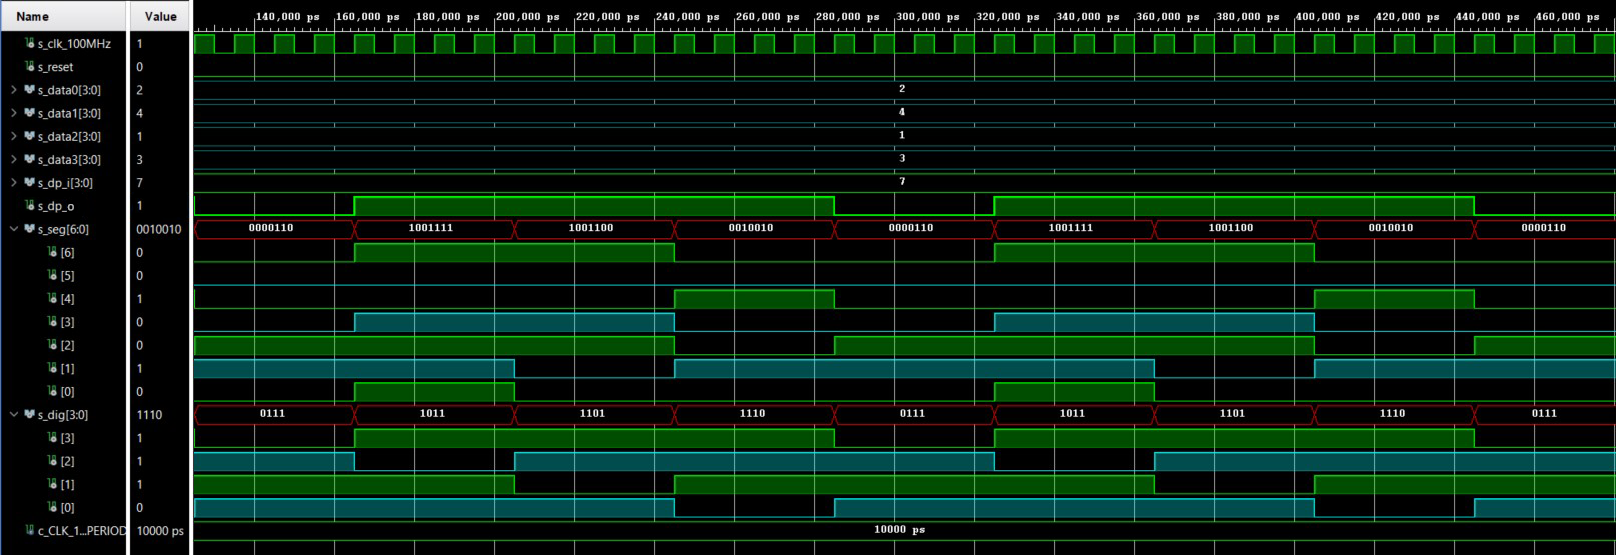
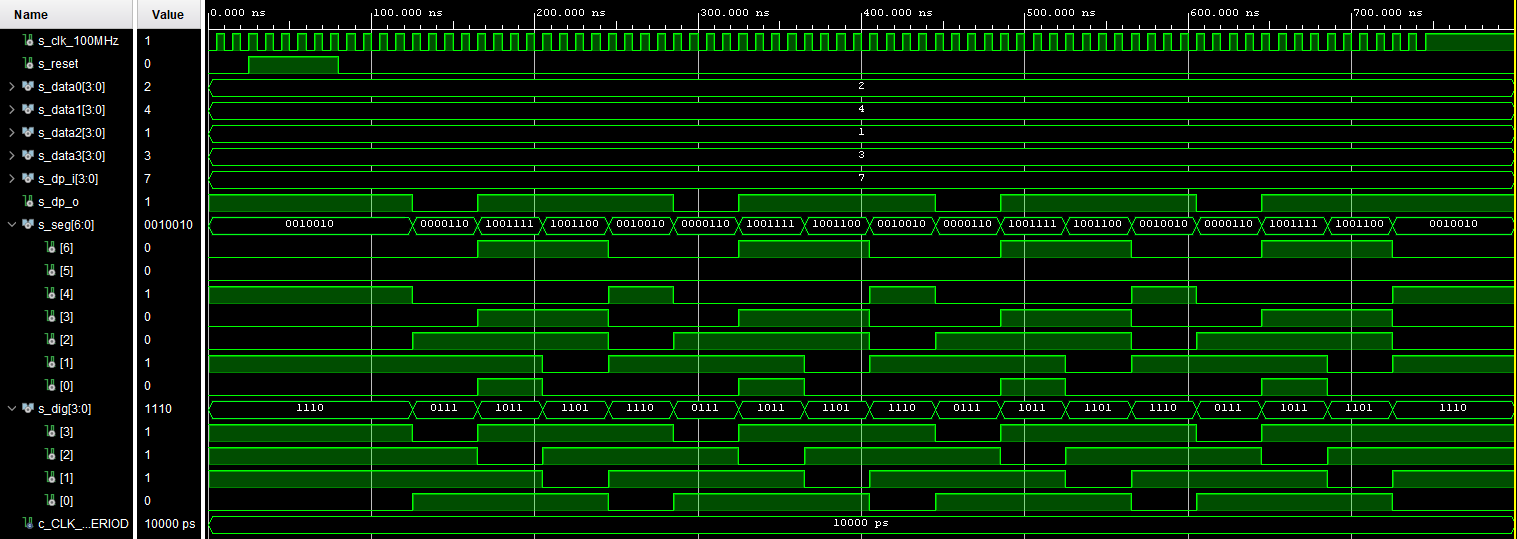
final

diff --git a/Labs/06-display_driver/README.md b/Labs/06-display_driver/README.md
@@ -21,20 +21,15 @@ p_mux : process(s_cnt, data0_i, data1_i, data2_i, data3_i, dp_i)
                 s_hex <= data3_i;
                 dp_o  <= dp_i(3);
                 dig_o <= "0111";
-
             when "10" =>
-                -- WRITE YOUR CODE HERE
                 s_hex <= data2_i;
                 dp_o  <= dp_i(2);
                 dig_o <= "1011";
             when "01" =>
-                -- WRITE YOUR CODE HERE
                 s_hex <= data1_i;
                 dp_o  <= dp_i(1);
                 dig_o <= "1101";
-
             when others =>
-                -- WRITE YOUR CODE HERE
                 s_hex <= data0_i;
                 dp_o  <= dp_i(0);
                 dig_o <= "1110";
@@ -54,12 +49,11 @@ end entity tb_driver_7seg_4digits;
 
 architecture testbench of tb_driver_7seg_4digits is
 
-    -- Local constants
+
     constant c_CLK_100MHZ_PERIOD : time    := 10 ns;
 
-    --Local signals
     signal s_clk_100MHz : std_logic;
-    --- WRITE YOUR CODE HERE
+
     signal s_reset : std_logic;
     
     signal s_data0 : std_logic_vector(4-1 downto 0);
@@ -73,9 +67,7 @@ architecture testbench of tb_driver_7seg_4digits is
     signal s_dig : std_logic_vector(4-1 downto 0);
     
 begin
-    -- Connecting testbench signals with driver_7seg_4digits entity
-    -- (Unit Under Test)
-    --- WRITE YOUR CODE HERE
+
     uut_driver_7seg_4digits : entity work.driver_7seg_4digits
     port map(
             clk => s_clk_100MHz,
@@ -108,15 +100,14 @@ begin
     --------------------------------------------------------------------
     -- Reset generation process
     --------------------------------------------------------------------
-    --- WRITE YOUR CODE HERE
     p_reset_gen : process
     begin
         s_reset <= '0';
-        wait for 28 ns;
+        wait for 25 ns;
         
         -- Reset activated
         s_reset <= '1';
-        wait for 53 ns;
+        wait for 55 ns;
        
         s_reset <= '0';
         wait;
@@ -124,7 +115,6 @@ begin
     --------------------------------------------------------------------
     -- Data generation process
     --------------------------------------------------------------------
-    --- WRITE YOUR CODE HERE
     p_stimulus : process
     begin
         report "Stimulus process started" severity note;
@@ -142,7 +132,6 @@ begin
         
 end architecture testbench;
 ```
-
 ### Screenshot with simulated time waveforms
 
 ![2](Images/2.png)
@@ -164,7 +153,6 @@ begin
             data0_i(2) => SW(2),
             data0_i(1) => SW(1),
             data0_i(0) => SW(0),
-            --- WRITE YOUR CODE HERE
             
             data1_i(3) => SW(7),
             data1_i(2) => SW(6),
@@ -192,14 +180,12 @@ begin
             seg_o(1) => CF,
             seg_o(0) => CG,
 
-            dig_o => AN (4-1 downto 0)
-            --- WRITE YOUR CODE HERE   
+            dig_o => AN (4-1 downto 0) 
         );
     -- Disconnect the top four digits of the 7-segment display
     AN(7 downto 4) <= b"1111";
 end architecture Behavioral;
 ```
-
 ## Eight-digit driver
 
 ### Image of the driver schematic
